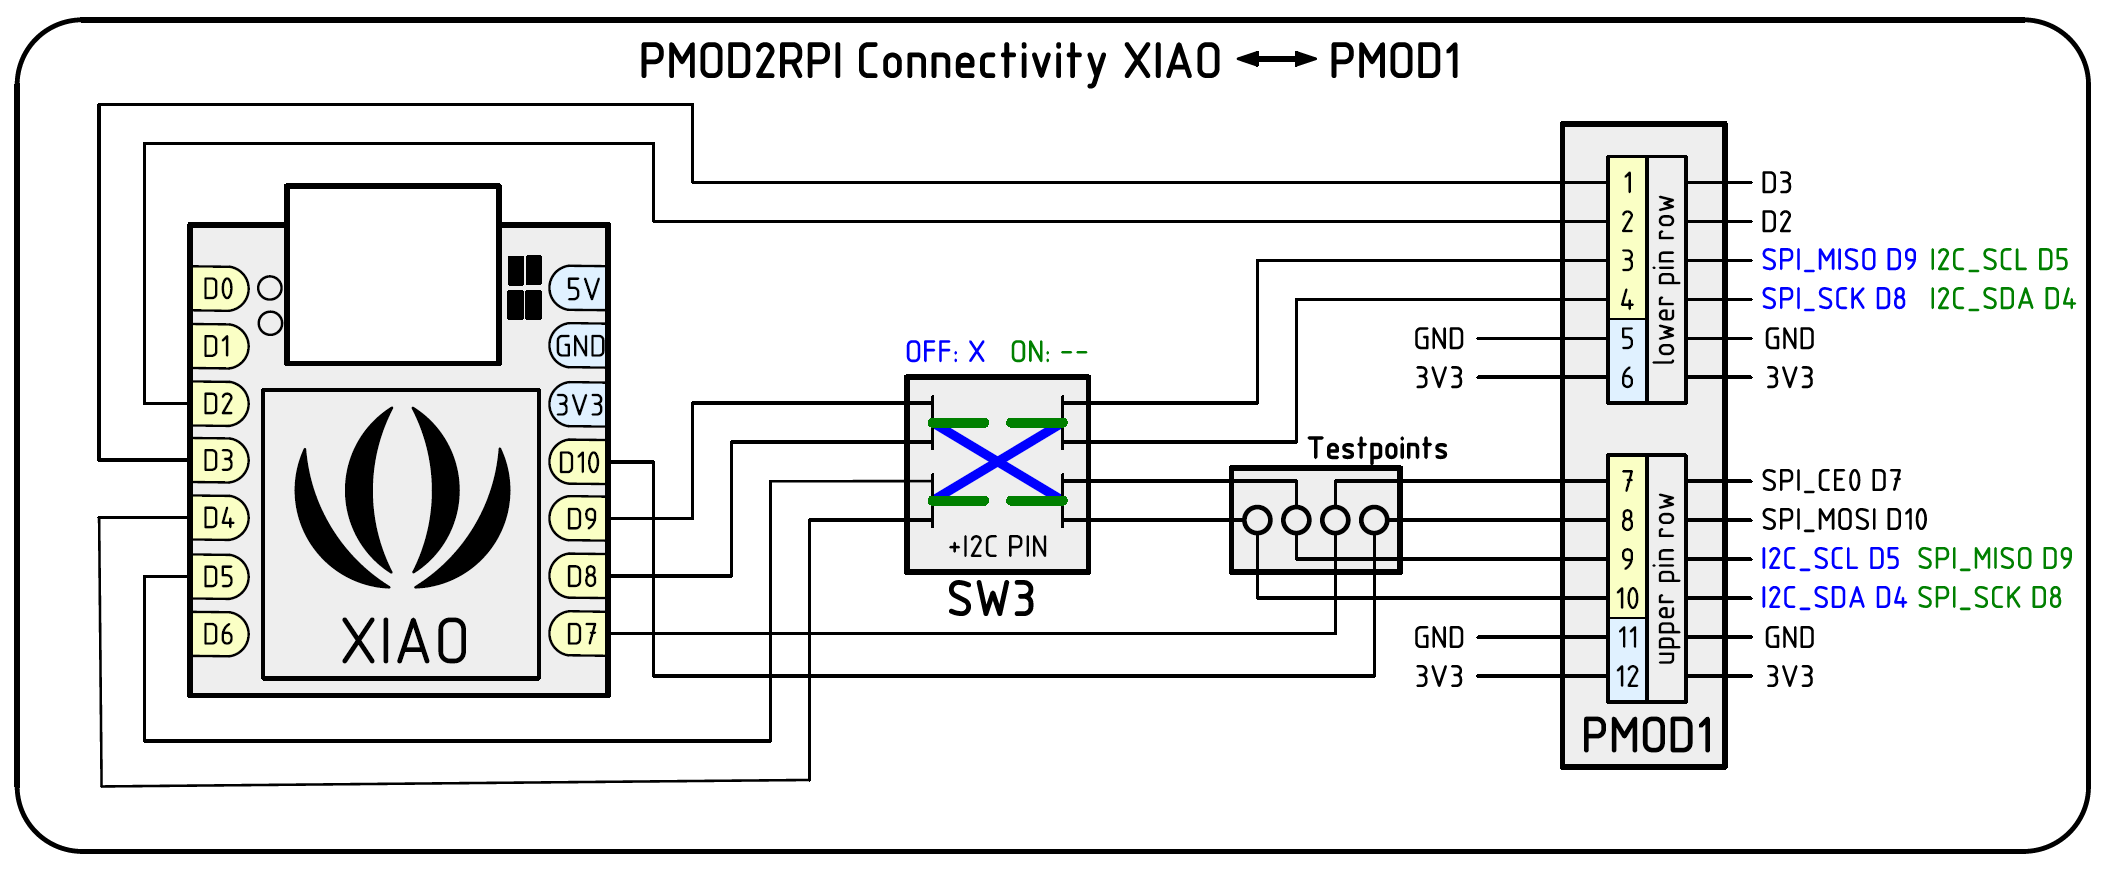
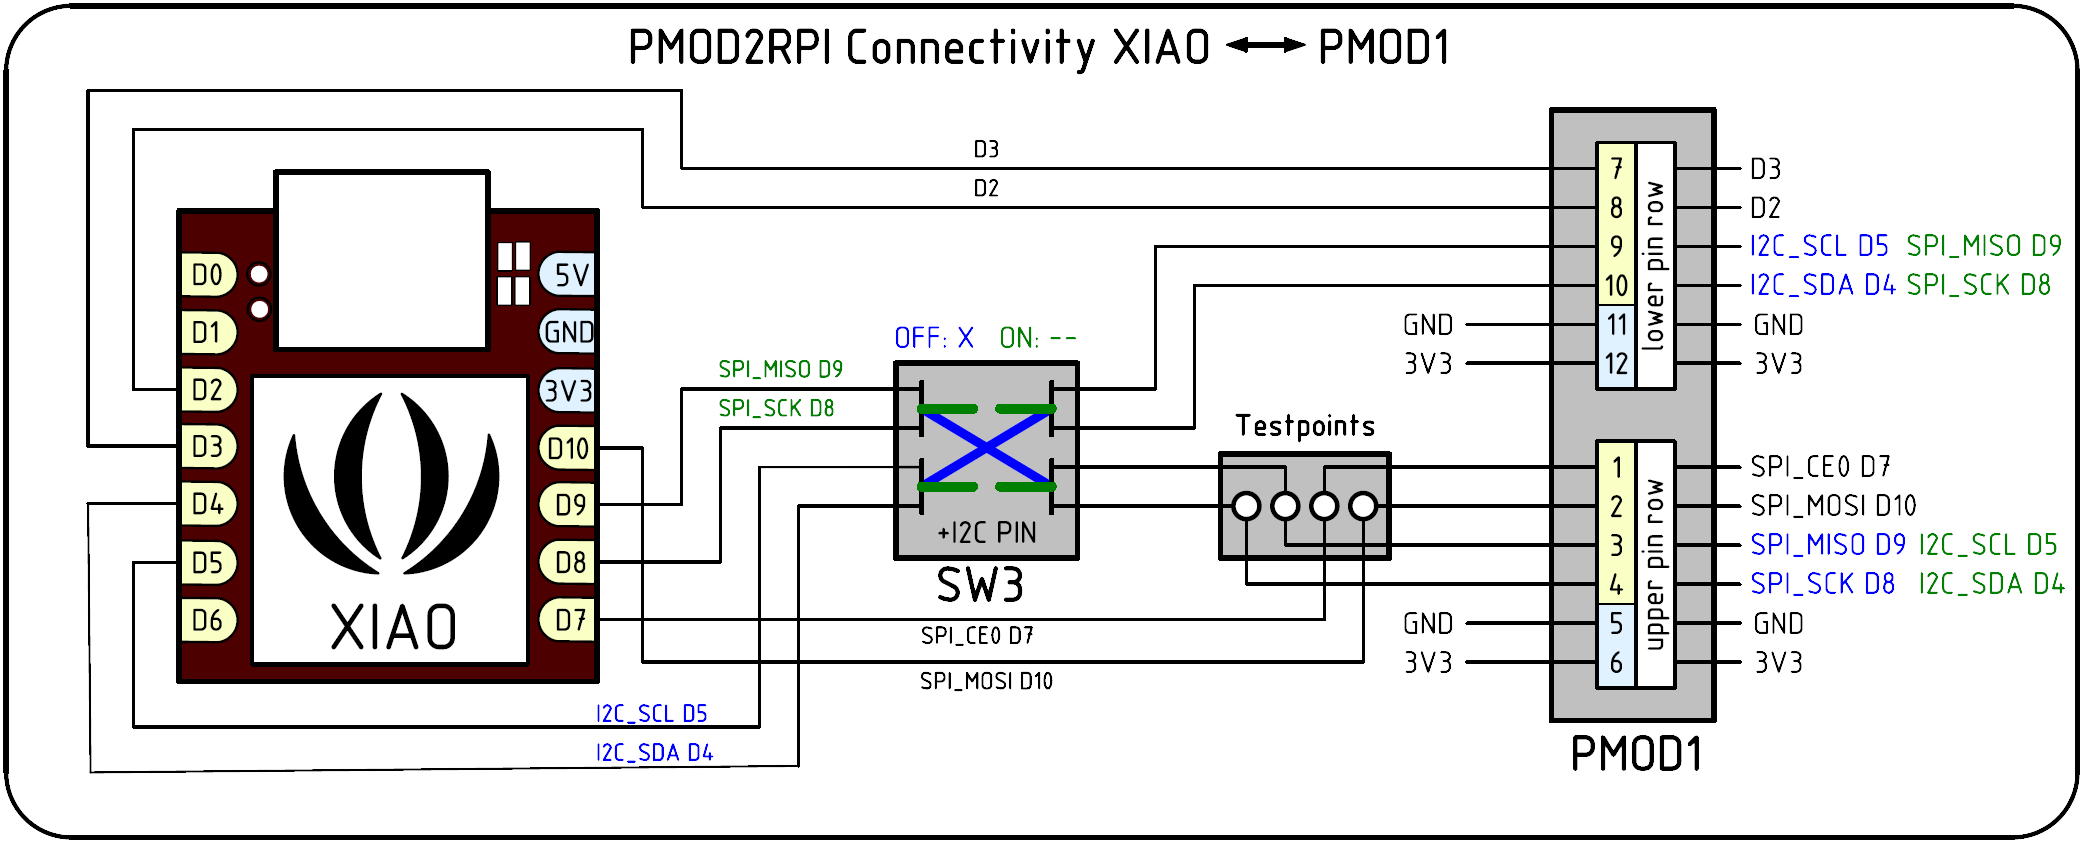
update pinout

Changed region(s): [[0.0, 0.0, 0.9976, 1.0]]

diff --git a/pmod2rpi-pinout.md b/pmod2rpi-pinout.md
@@ -55,6 +55,8 @@
 
 XIAO pins with alternate pins in () are controlled by the "+I2C Pin" DIP switch setting of SW3.
 
+<img src="images/pmod2rpi-schema-rpi-mod1-v10.png" width="700"/>
+
 ### PMOD2 pin assignment list
 
 #### Top Row
@@ -83,6 +85,8 @@ XIAO pins with alternate pins in () are controlled by the "+I2C Pin" DIP switch 
 
 The bottom row is not connected to any XIAO pins.
 
+<img src="images/pmod2rpi-schema-rpi-mod2-v10.png" width="700"/>
+
 ### PMOD3 pin assignment list
 
 #### Top Row
@@ -90,7 +94,7 @@ The bottom row is not connected to any XIAO pins.
 | PMOD Pin# | RPi Pin Name | RPi Alternate  | RPi Pin-# |
 |-----------|--------------|----------------|-----------|
 | 1         | GPIO16       | CTS            | 36        |
-| 2         | GPIO10       | TXD            | 8         |
+| 2         | GPIO14       | TXD            | 8         |
 | 3         | GPIO15       | RXD            | 10        |
 | 4         | GPIO17       | RTS            | 11        |
 | 5         | GND          | GND            | 6,9,14... |
@@ -107,7 +111,7 @@ The bottom row is not connected to any XIAO pins.
 | 11        | GND          | -              | 6,9,14... |
 | 12        | 3V3          | -              | 1,17      |
 
-The bottom row is not connected to any XIAO pins.
+<img src="images/pmod2rpi-schema-rpi-mod3-v10.png" width="700"/>
 
 ### PMOD4 pin assignment list
 

diff --git a/readme.md b/readme.md
@@ -6,9 +6,12 @@
 
 PMOD2RPI is a PMOD-compatible Interface Board for the Raspberry Pi B-type GPIO connector. It provides a total of four PMOD connectors to run PMOD-compatible modules on the Raspberry Pi.  This board is compatible to PMOD interface standard v1.3.1 by Digilent Inc. The PMOD (peripheral module interface) standard enables simple plug-in connectivity between FPGA or microcontroller development boards, and a range of input/output modules.
 
- <img src="images/pmod2rpi-top-v10.png" width="480px">
+This design is registered under the OSHWA Open Source Hardware Self-Certification:  
+<a href="https://certification.oshwa.org/jp000013.html"><img src="images/oshw-reg-jp000013.svg" style="width:100px; vertical-align: middle"></a>
 
  While all connectors provide digital IO, they also double as serial bus connectors for I2C and SPI modules. To aid troubleshooting, a set of Keystone miniature testpins can be fitted to create access for oscilloscope and DMM monitoring. A Seeeduino XIAO footprint has been added to additionally drive two of the four PMOD's, or to communicate with the RPi. The XIAO is optional, and can operate with the board "standalone" if needed.
+
+ <img src="images/pmod2rpi-top-v10.png" width="480px">
 
 #### I2C /SPI signal switching on PMOD1
 
